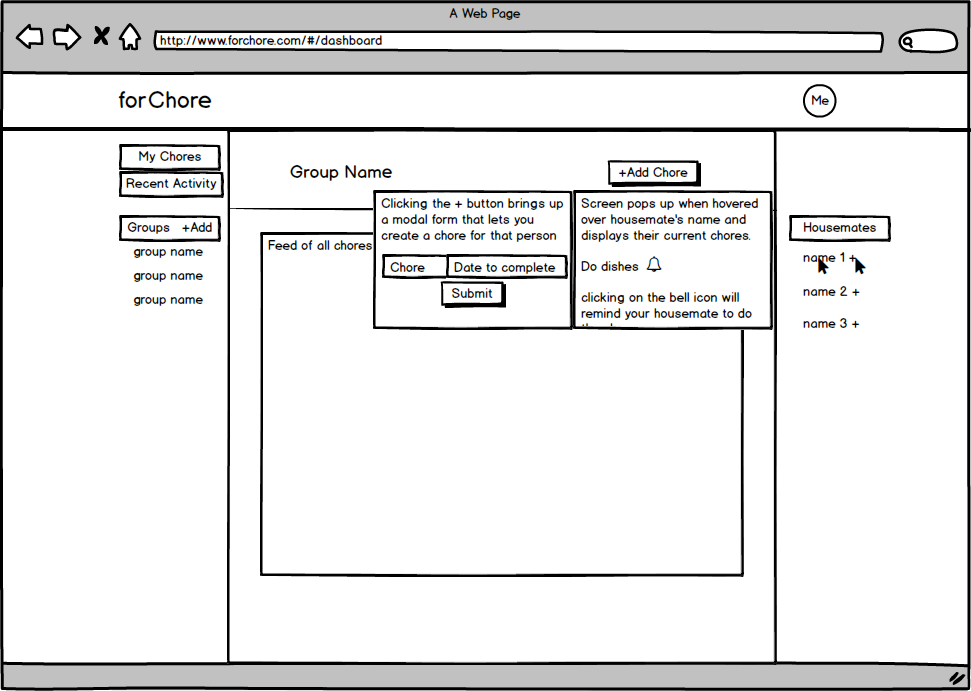
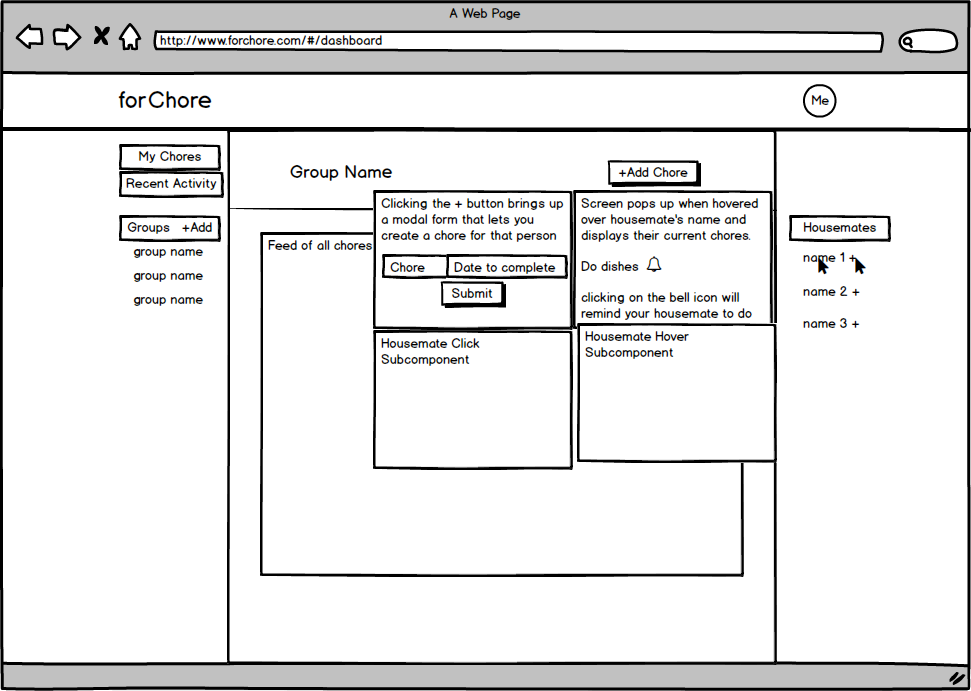
schema, wireframes, sample-state

Changed region(s): [[0.3708, 0.4559, 0.8033, 0.6686], [0.3708, 0.6686, 0.587, 0.699]]

diff --git a/README.md b/README.md
@@ -10,8 +10,8 @@ By the end of week 9, forChore will satisfy the following criteria
 * Hosting on Heroku
 * New account creation, login, guest/demo login
 * Creating groups/houses
-* Assigning chores
-* Finishing chores
+* Assigning/Finishing chores
+* Likes
 * Chores NewsFeed
 * Production README sample
 
@@ -35,18 +35,13 @@ Objective: Have a functioning styled rails project with front-end Authentication
 
 ### Phase 2 Groups, api, components (3 days) ###
 
-Objective:
-Create Groups/Joins Groups (Group request/invite)
-Functioning components that recognize if the user is in a group or not.
-If the user is not in a group (e.g just made an account), they will be prompted to either join or create a group.
-Users not in a group should be able to be see and accept group invites from other users.
-Otherwise, they will be directed to the main page. Users in a group should be able to accept user requests to join the group
+Objective: Create multiple groups  
 
-### Phase 3 Assign Chores (1 day) ###
+### Phase 3 Assign Chores/Complete Chores (2 days) ###
 
 Objective: Have functioning form to create chores for members of your forChore group. These chores will show up in your myChores Page
 
-### Phase 4 Finish Chores (1 day) ###
+### Phase 4 Add Comments
 
 Objective:  Allow users to complete chores
 
@@ -57,6 +52,8 @@ Objective: Allow users to see a news feed of chores as they are completed
 ### Bonus (tbd) ###
 
 * Gmail login
+
+* Group Invites 7
 
 * Hover/click housemates to make chores and send Reminders
 

diff --git a/docs/schema.md b/docs/schema.md
@@ -10,29 +10,21 @@
 password_digest  | string    | not null
 session_token    | string    | not null, indexed, unique
 
-## Requested Groups ##
-    column name | data-type | details
-    ------------ | --------- | -------
-         id     | integer   | not null, primary_key
-      user_id   | integer   | not null, foreign_key, indexed
-      group_id  | integer   | not null, foreign_key, indexed
-      accepted  | boolean   |
 
-## Invited Groups ##
+## Groups/Users Join Table ##
 
         column name | data-type | details
        ------------ | --------- | -------
              id     | integer   | not null, primary_key
           user_id   | integer   | not null, foreign_key, indexed
           group_id  | integer   | not null, foreign_key, indexed
-          accepted  | boolean   |
 
 ## Groups ##
 
           column name | data-type | details
          ------------ | --------- | -------
                id     | integer   | not null, primary_key
-            user_id   | integer   | not null, foreign_key, indexed
+         creator_id   | integer   | not null, foreign_key, indexed
             title     | string    | not null
 
 ## Chores ##

diff --git a/docs/sample-state.md b/docs/sample-state.md
@@ -44,7 +44,12 @@
               chore_body: "Clean dishes",
               date_complete: "11/11/16",
               complete: false,
-              reminded: 0
+              reminded: 0,
+              comments: {
+                body: "can you clean my pot too?",
+                time-added: "14:05:23",
+                date-added: "11/11/16"
+              }
             }
           }
         }  
